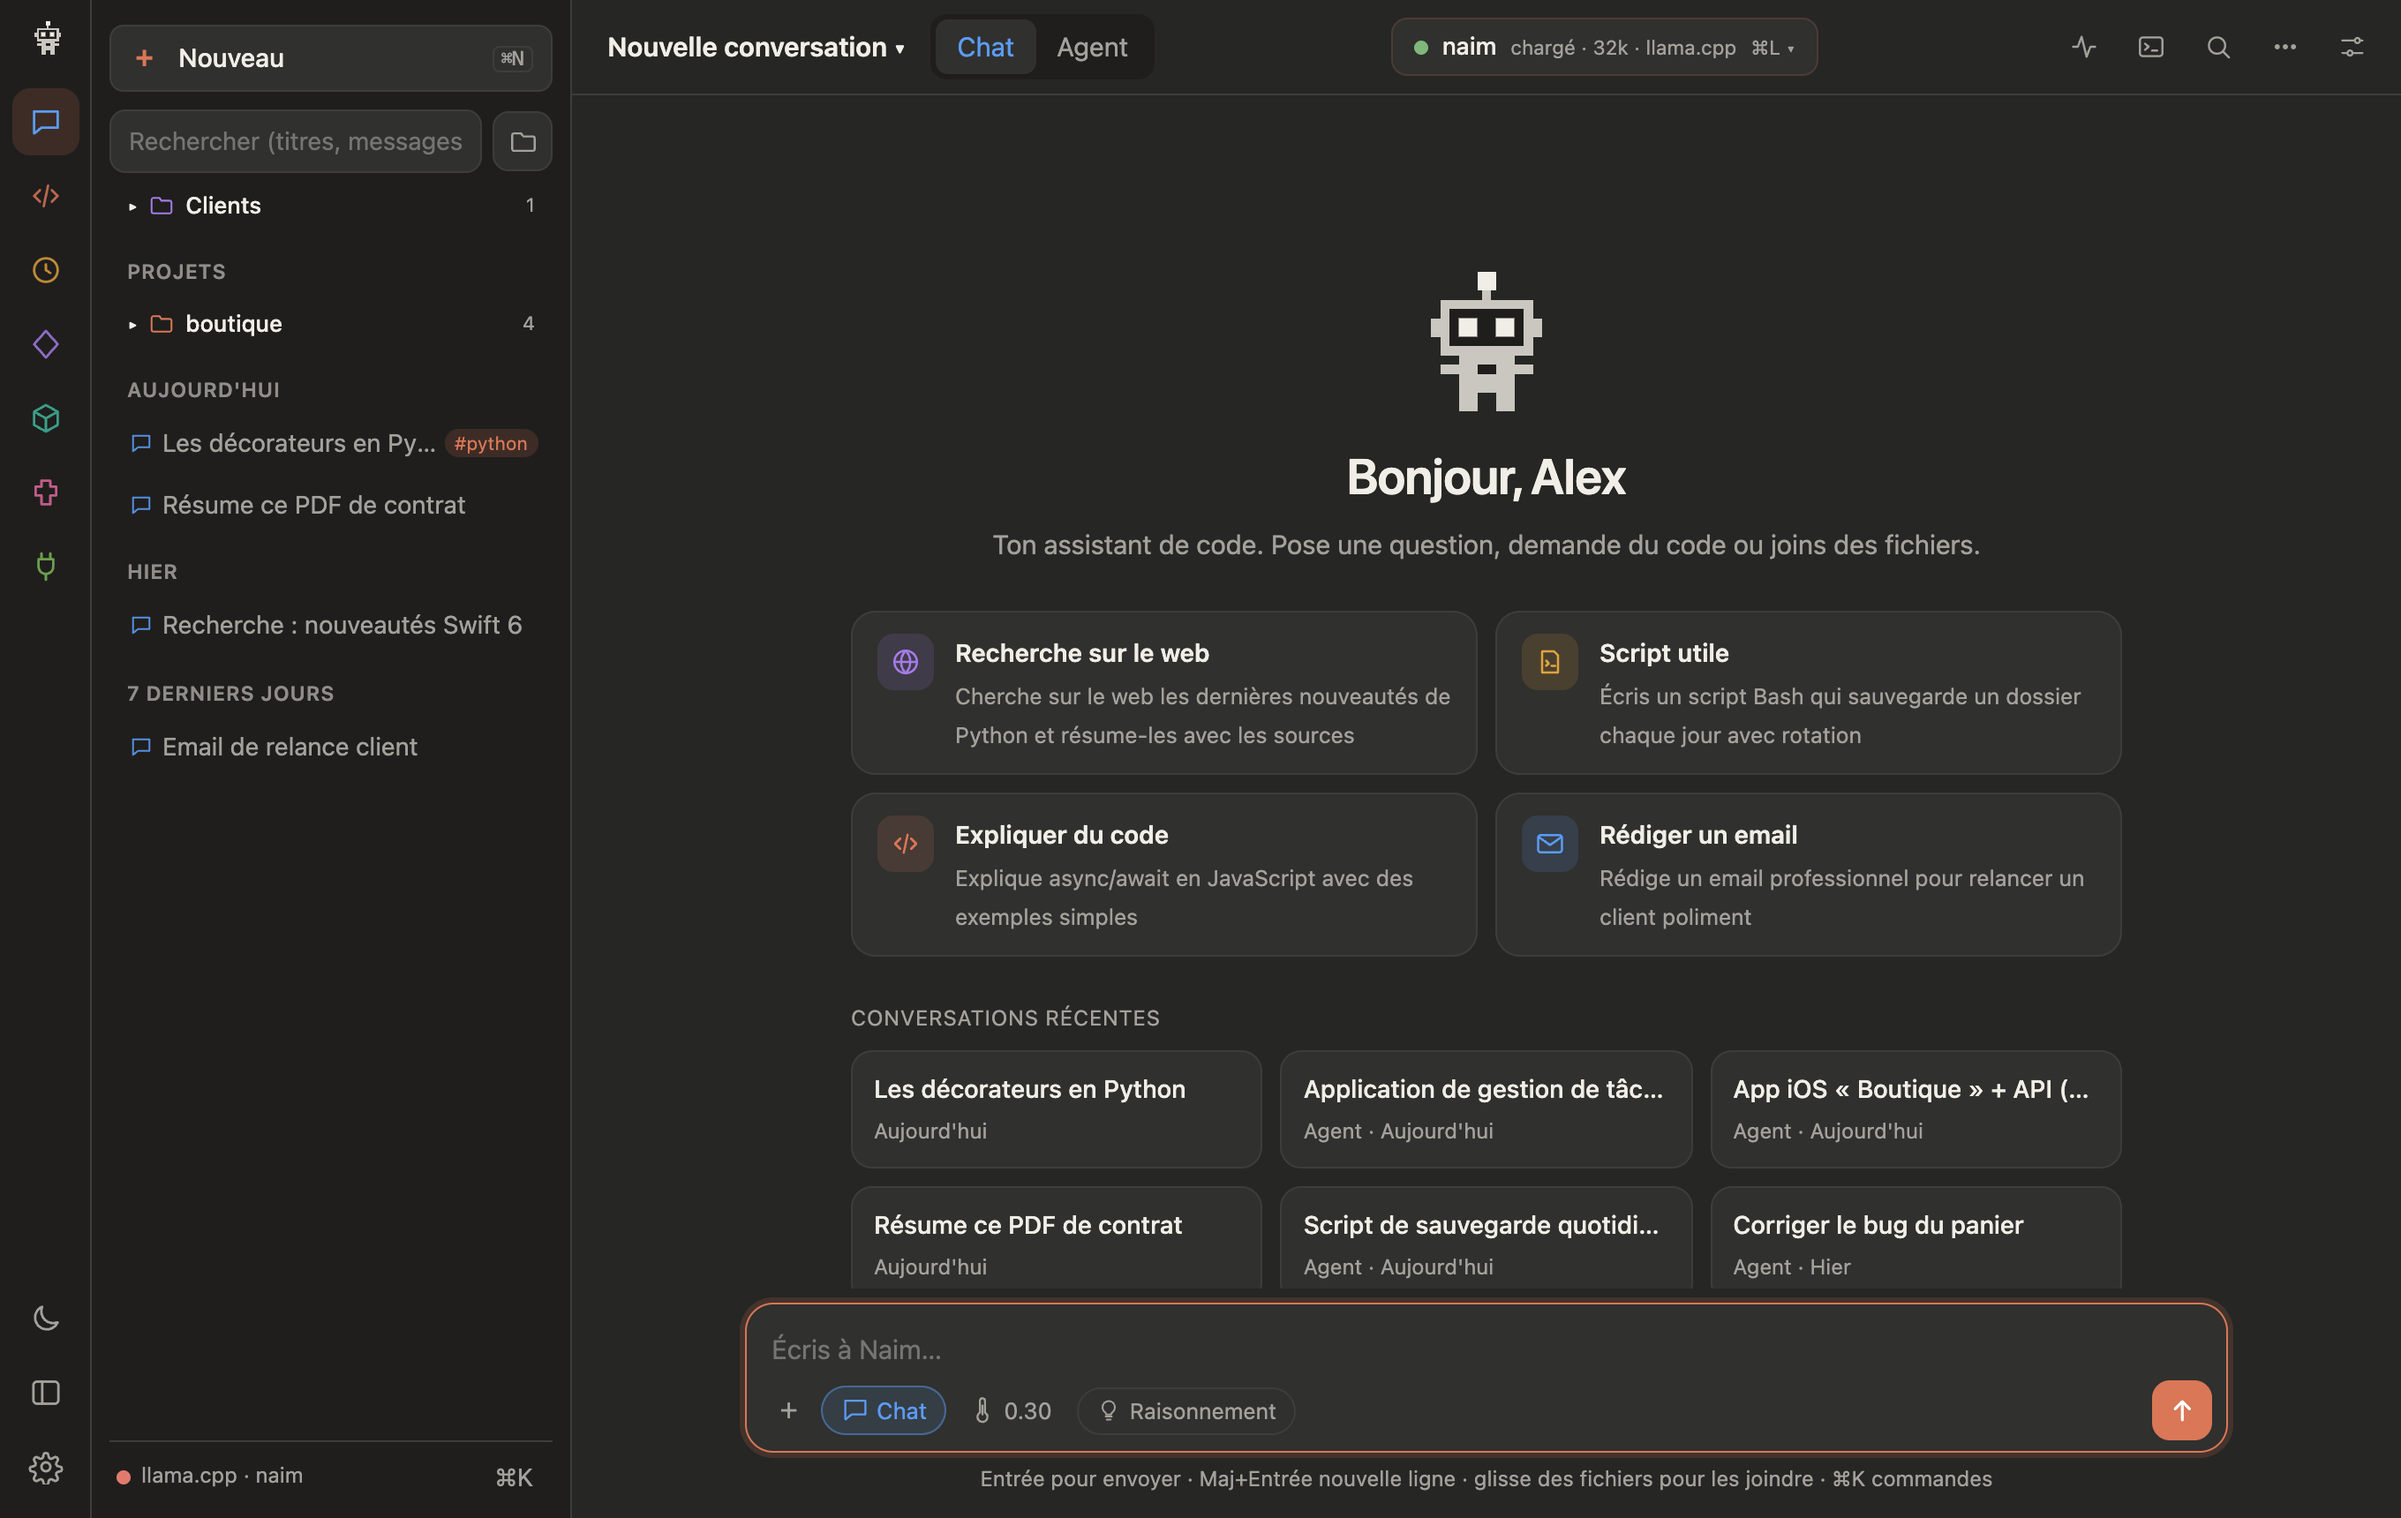
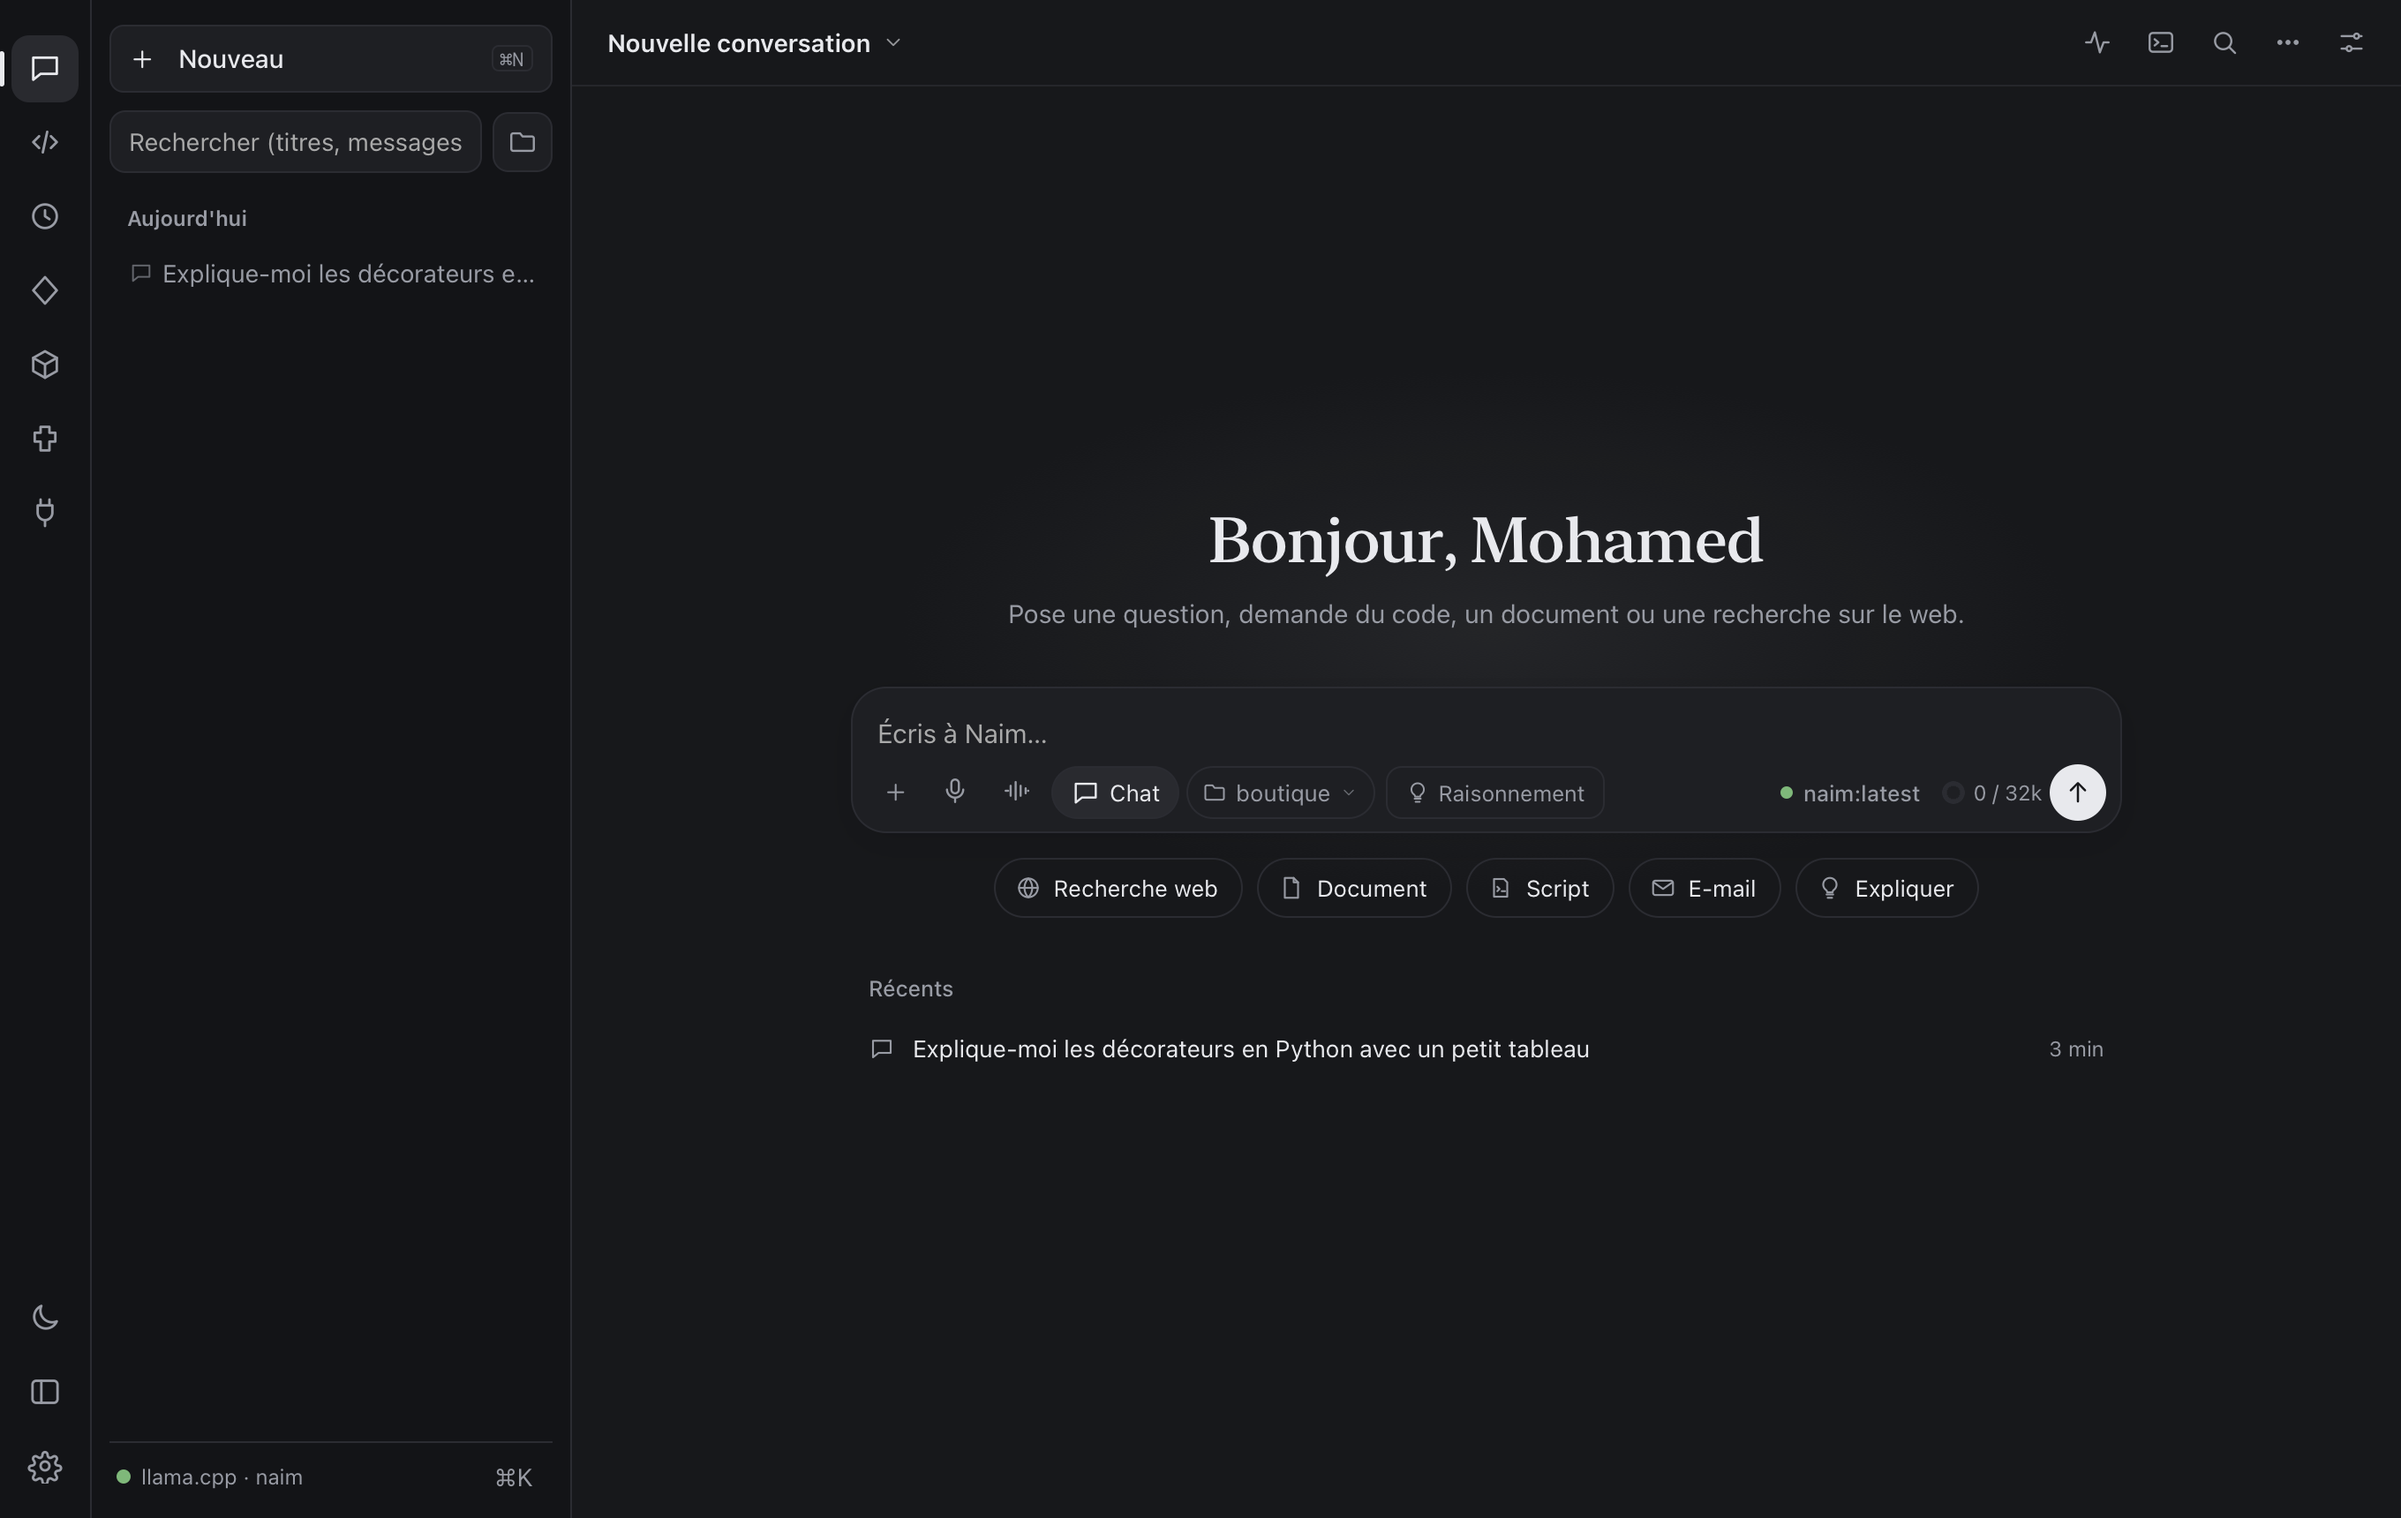
README : nouvelle capture de l'accueil (les anciennes sont gardées dans docs/images/ancienne-version), lien Hugging Face du modèle

diff --git a/README.md b/README.md
@@ -1,13 +1,13 @@
 # Naim
 
 <p align="center">
-  <img src="docs/images/app-mac.png" alt="Naim, l'application Mac" width="880">
+  <img src="docs/images/accueil.png" alt="Naim, l'application Mac : l'accueil" width="880">
 </p>
 
 <p align="center">
   <a href="LICENSE"><img alt="Licence Apache 2.0" src="https://img.shields.io/badge/licence-Apache%202.0-d97757"></a>
   <img alt="macOS Apple Silicon" src="https://img.shields.io/badge/macOS-Apple%20Silicon-333">
-  <img alt="Modèle Naim 9B" src="https://img.shields.io/badge/mod%C3%A8le-Naim%209B-ffcc4d">
+  <a href="https://huggingface.co/redhamohamed/naim"><img alt="Modèle Naim sur Hugging Face" src="https://img.shields.io/badge/mod%C3%A8le-Naim%209B-ffcc4d"></a>
   <img alt="100 % local" src="https://img.shields.io/badge/100%25-local-3fb9a0">
 </p>
 
@@ -95,6 +95,7 @@ Naim a **son propre modèle**, réservé à l'application Naim : il se télécha
 | Utilisation | dans Naim : l'application, le navigateur (`naim --web`) et le terminal (`naimtools`) |
 | Vitesse (Mac M4, 32 Go) | ~12 à 17 tokens/s en écriture, ~75 à 100 tokens/s en lecture |
 | Entraînement | affinage LoRA par auto-distillation, successeur de Mimo |
+| Page du modèle | [huggingface.co/redhamohamed/naim](https://huggingface.co/redhamohamed/naim) (privé pour l'instant : le modèle s'installe avec l'application) |
 | Licence | Apache 2.0 |
 
 Les fichiers du modèle portent son nom jusque dans leurs métadonnées (`general.architecture = naim`, vision
